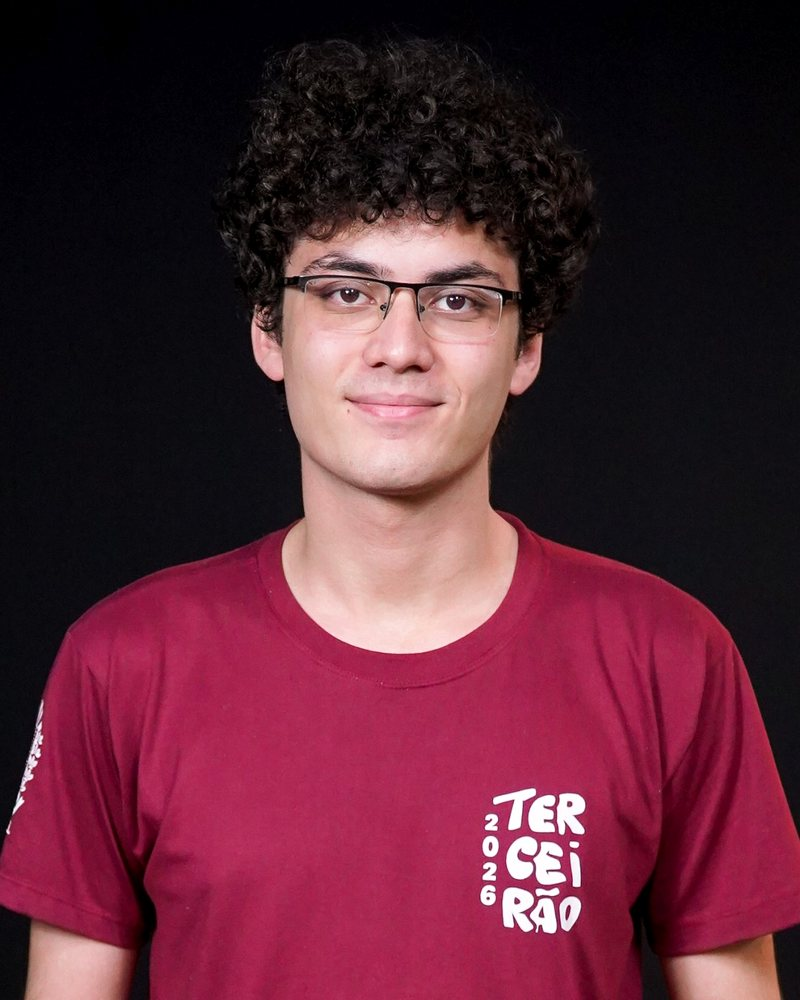
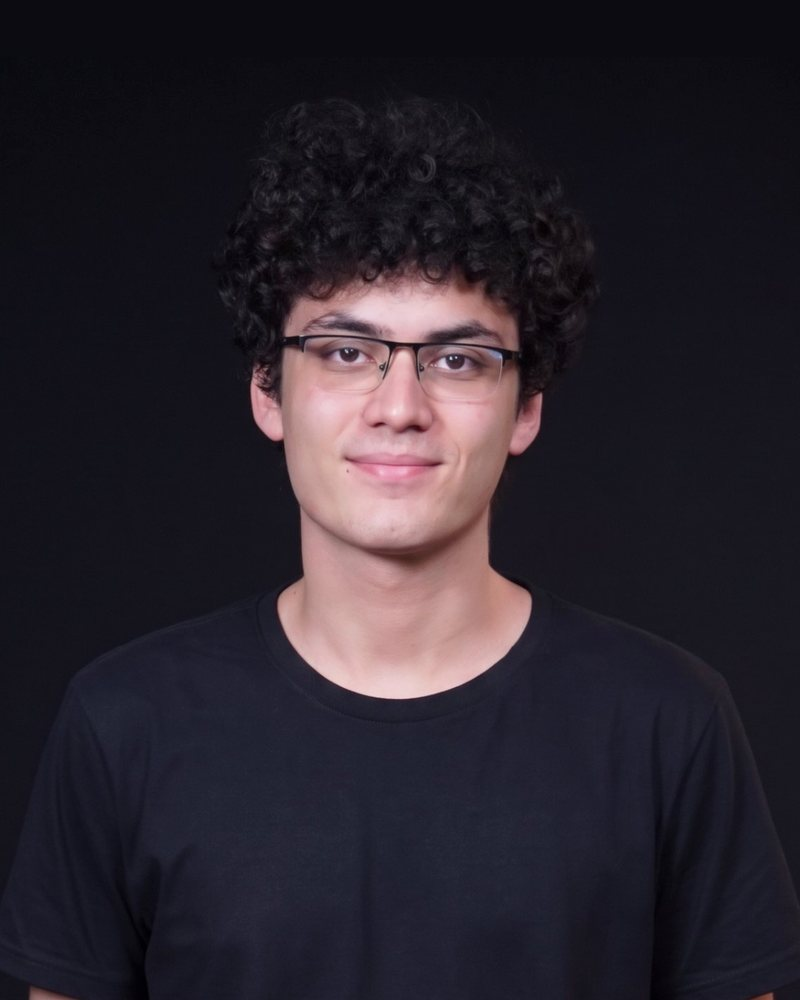
Troca a cada 4,5 s, sem rodapé e novas fotos de Afonso e Kauan
Claude-Session: https://claude.ai/code/session_015o542nsGvfeTGqw11Zf567

diff --git a/src/components/TeamShowcase.jsx b/src/components/TeamShowcase.jsx
@@ -72,7 +72,7 @@ export default function TeamShowcase({ team, detailsUrl, onActiveChange }) {
           tileSize={0.66}
           zoom={1.85}
           offsetX={offsetX}
-          autoplay={3 /* segundos de uma troca à outra (inclui a transição) */}
+          autoplay={4.5 /* segundos de uma troca à outra (inclui a transição) */}
           pauseOnHover={false}
           travelZoom={1.1}
           travelDuration={1.3}

diff --git a/src/App.jsx b/src/App.jsx
@@ -129,12 +129,6 @@ export default function App() {
       </main>
       </section>
 
-      <footer className="footer">
-        <span>
-          {site.teamName} · {new Date().getFullYear()}
-        </span>
-        <span className="footer-muted">Feito com café e React</span>
-      </footer>
     </div>
   );
 }
